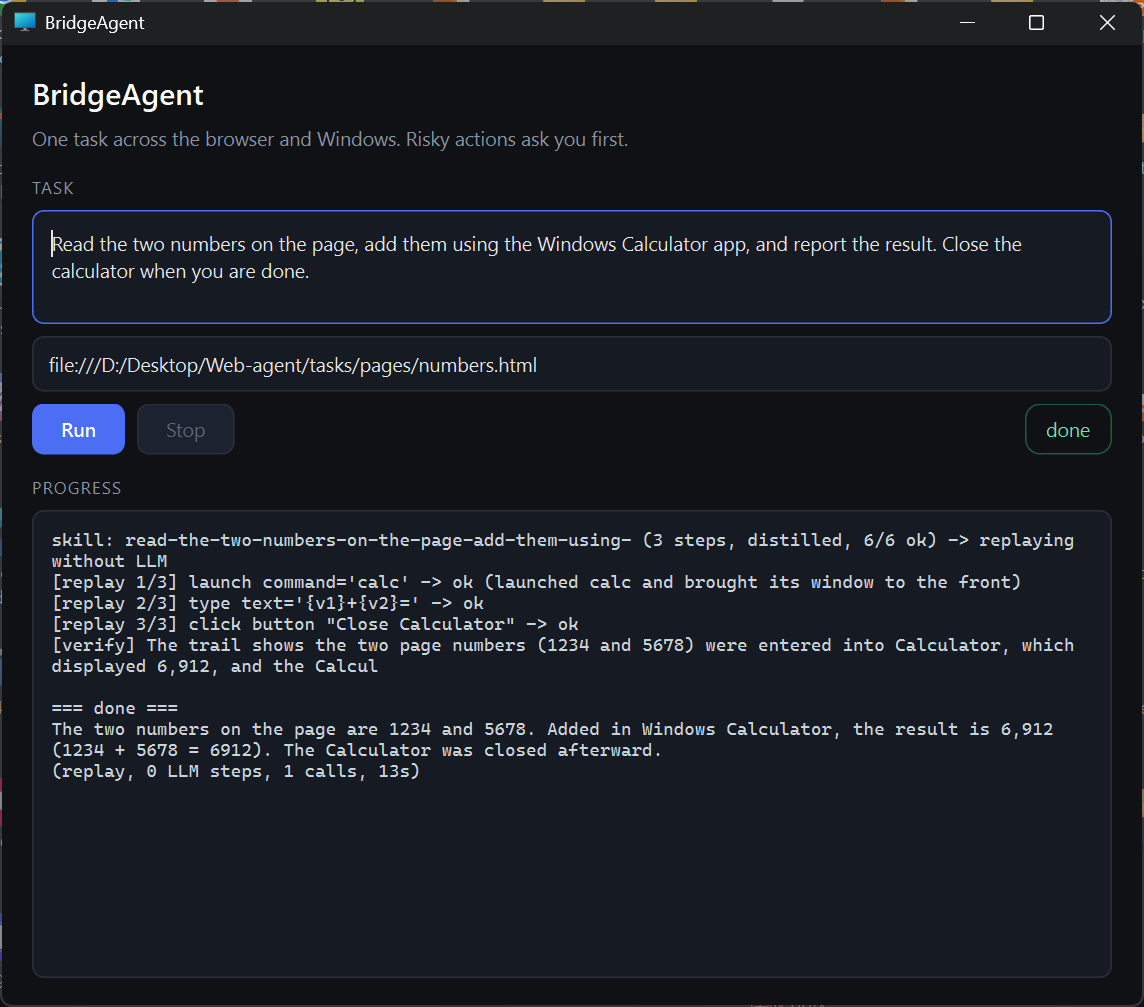
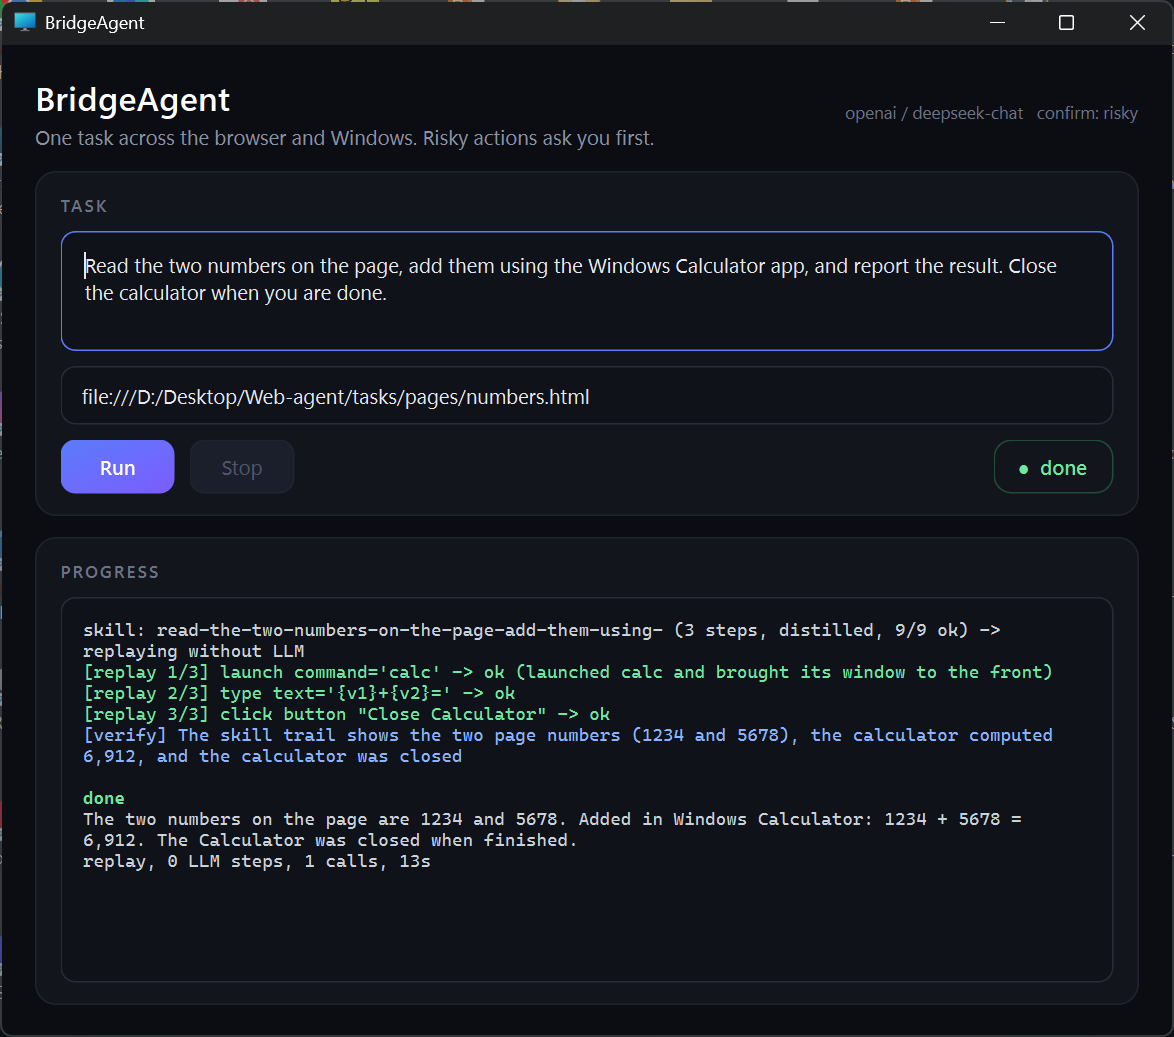
Redesign the desktop window: cards, gradient action, colored log

diff --git a/src/bridgeagent/gui.py b/src/bridgeagent/gui.py
@@ -10,6 +10,7 @@ Run:  bridgeagent gui [--task "..."] [--start-url URL] [--autorun]
 
 from __future__ import annotations
 
+import html
 import sys
 import threading
 
@@ -17,6 +18,7 @@ from PySide6.QtCore import QObject, Signal
 from PySide6.QtGui import QIcon
 from PySide6.QtWidgets import (
     QApplication,
+    QFrame,
     QHBoxLayout,
     QLabel,
     QLineEdit,
@@ -26,6 +28,7 @@ from PySide6.QtWidgets import (
     QPushButton,
     QStyle,
     QSystemTrayIcon,
+    QTextEdit,
     QVBoxLayout,
     QWidget,
 )
@@ -36,22 +39,43 @@ from .config import load_settings
 from .llm import make_planner
 
 STYLE = """
-QMainWindow, QWidget { background: #0f1115; color: #e6e6e6; font-family: 'Segoe UI'; font-size: 13px; }
-QLabel#title { font-size: 20px; font-weight: 600; color: #ffffff; }
-QLabel#subtitle { color: #8b93a3; }
-QLabel#section { color: #8b93a3; font-size: 11px; letter-spacing: 1px; }
-QLabel#status { color: #8b93a3; padding: 4px 10px; border: 1px solid #2a2f3a; border-radius: 10px; }
-QPlainTextEdit, QLineEdit { background: #161a22; border: 1px solid #2a2f3a; border-radius: 8px; padding: 8px; selection-background-color: #3b5bdb; }
-QPlainTextEdit:focus, QLineEdit:focus { border-color: #4c6ef5; }
-QPlainTextEdit#log { font-family: 'Cascadia Mono', Consolas, monospace; font-size: 12px; color: #c9d1d9; }
-QPushButton { background: #1c2230; border: 1px solid #2a2f3a; border-radius: 8px; padding: 7px 18px; color: #e6e6e6; }
-QPushButton:hover { background: #242b3b; }
-QPushButton:disabled { color: #5c6475; }
-QPushButton#run { background: #4c6ef5; border-color: #4c6ef5; color: white; font-weight: 600; }
-QPushButton#run:hover { background: #5c7cfa; }
-QPushButton#run:disabled { background: #2b3550; border-color: #2b3550; color: #7f8aa5; }
-QPushButton#stop:enabled { color: #ff8787; border-color: #5a1f1f; }
+QMainWindow, QWidget { background: #0b0d12; color: #e7e9ee; font-family: 'Segoe UI Variable', 'Segoe UI'; font-size: 13px; }
+QLabel { background: transparent; }
+QLabel#title { font-size: 22px; font-weight: 600; color: #ffffff; }
+QLabel#subtitle { color: #8a93a6; font-size: 13px; }
+QLabel#meta { color: #6b7386; font-size: 11px; }
+QLabel#section { color: #6b7386; font-size: 11px; font-weight: 600; letter-spacing: 1.5px; }
+QFrame#card { background: #12151c; border: 1px solid #1f2430; border-radius: 14px; }
+QPlainTextEdit, QLineEdit { background: #0f1218; border: 1px solid #262c3a; border-radius: 10px; padding: 9px 11px;
+                            selection-background-color: #3b5bdb; }
+QPlainTextEdit:focus, QLineEdit:focus { border-color: #5b7cfa; }
+QTextEdit#log { background: #0f1218; border: 1px solid #262c3a; border-radius: 10px; padding: 10px;
+                font-family: 'Cascadia Mono', Consolas, monospace; font-size: 12px; color: #c9d1d9; }
+QPushButton { background: #1a1f2b; border: 1px solid #2a3040; border-radius: 10px; padding: 8px 20px; color: #e7e9ee; }
+QPushButton:hover { background: #222838; }
+QPushButton:disabled { color: #4f566a; border-color: #1f2430; }
+QPushButton#run { background: qlineargradient(x1:0, y1:0, x2:1, y2:1, stop:0 #5b7cfa, stop:1 #7c5cff);
+                  border: none; color: white; font-weight: 600; padding: 9px 26px; }
+QPushButton#run:hover { background: qlineargradient(x1:0, y1:0, x2:1, y2:1, stop:0 #6b8afc, stop:1 #8a6dff); }
+QPushButton#run:disabled { background: #232a3d; color: #6b7386; }
+QPushButton#stop:enabled { color: #ff8787; border-color: #4a2323; }
+QScrollBar:vertical { background: transparent; width: 8px; }
+QScrollBar::handle:vertical { background: #2a3040; border-radius: 4px; min-height: 24px; }
+QScrollBar::add-line:vertical, QScrollBar::sub-line:vertical { height: 0; }
 """
+STATUS = {
+    "idle": ("#8a93a6", "#262c3a"),
+    "running": ("#ffd166", "#4d4120"),
+    "done": ("#6ee7a0", "#1f4d35"),
+    "failed": ("#ff6b6b", "#4d2323"),
+}
+LINE_COLORS = (
+    ("-> ok", "#6ee7a0"),
+    ("[verify]", "#8ab4ff"),
+    ("[heal]", "#ffd166"),
+    ("!!", "#ff6b6b"),
+    ("FAILED", "#ff6b6b"),
+)
 
 
 class _Bus(QObject):
@@ -63,18 +87,25 @@ class Window(QMainWindow):
     def __init__(self, task: str = "", start_url: str = "", autorun: bool = False, quit_when_done: bool = False):
         super().__init__()
         self.setWindowTitle("BridgeAgent")
-        self.resize(760, 640)
+        self.resize(780, 660)
         self.bus = _Bus()
         self.bus.line.connect(self._append)
         self.bus.finished.connect(self._done)
         self.agent: Agent | None = None
         self.quit_when_done = quit_when_done
+        self._build(task, start_url)
+        self._tray()
+        if autorun and task:
+            self.start()
 
+    # -- layout -----------------------------------------------------------
+
+    def _build(self, task: str, start_url: str) -> None:
         self.task = QPlainTextEdit(task)
         self.task.setPlaceholderText(
             "What should the agent do? e.g. Open the invoices folder in Explorer and upload the newest one to the form."
         )
-        self.task.setFixedHeight(76)
+        self.task.setFixedHeight(80)
         self.url = QLineEdit(start_url)
         self.url.setPlaceholderText("Start URL (optional)")
         self.run_btn = QPushButton("Run")
@@ -82,62 +113,73 @@ class Window(QMainWindow):
         self.stop_btn = QPushButton("Stop")
         self.stop_btn.setObjectName("stop")
         self.stop_btn.setEnabled(False)
-        self.status = QLabel("idle")
-        self.status.setObjectName("status")
-        self.log = QPlainTextEdit()
+        self.status = QLabel()
+        self.log = QTextEdit()
         self.log.setObjectName("log")
         self.log.setReadOnly(True)
         self.run_btn.clicked.connect(self.start)
         self.stop_btn.clicked.connect(self.stop)
+        self._set_status("idle", "idle")
 
-        title = QLabel("BridgeAgent")
-        title.setObjectName("title")
-        subtitle = QLabel("One task across the browser and Windows. Risky actions ask you first.")
-        subtitle.setObjectName("subtitle")
+        settings = load_settings()
+        header = QHBoxLayout()
+        titles = QVBoxLayout()
+        titles.setSpacing(2)
+        titles.addWidget(self._label("BridgeAgent", "title"))
+        titles.addWidget(
+            self._label("One task across the browser and Windows. Risky actions ask you first.", "subtitle")
+        )
+        header.addLayout(titles, 1)
+        header.addWidget(
+            self._label(f"{settings.provider} / {settings.model}   confirm: {settings.confirm_mode}", "meta")
+        )
+
+        task_card = self._card()
+        task_card.layout().addWidget(self._label("TASK", "section"))
+        task_card.layout().addWidget(self.task)
+        task_card.layout().addWidget(self.url)
         row = QHBoxLayout()
         row.addWidget(self.run_btn)
         row.addWidget(self.stop_btn)
         row.addStretch(1)
         row.addWidget(self.status)
+        task_card.layout().addLayout(row)
+
+        log_card = self._card()
+        log_card.layout().addWidget(self._label("PROGRESS", "section"))
+        log_card.layout().addWidget(self.log, 1)
+
         layout = QVBoxLayout()
-        layout.setContentsMargins(20, 18, 20, 18)
-        layout.setSpacing(8)
-        layout.addWidget(title)
-        layout.addWidget(subtitle)
-        layout.addSpacing(8)
-        layout.addWidget(self._section("TASK"))
-        layout.addWidget(self.task)
-        layout.addWidget(self.url)
-        layout.addLayout(row)
-        layout.addSpacing(6)
-        layout.addWidget(self._section("PROGRESS"))
-        layout.addWidget(self.log, 1)
+        layout.setContentsMargins(22, 20, 22, 20)
+        layout.setSpacing(14)
+        layout.addLayout(header)
+        layout.addWidget(task_card)
+        layout.addWidget(log_card, 1)
         root = QWidget()
         root.setLayout(layout)
         self.setCentralWidget(root)
         self.setStyleSheet(STYLE)
-        self._tray()
-        if autorun and task:
-            self.start()
 
     @staticmethod
-    def _section(text: str) -> QLabel:
+    def _label(text: str, role: str) -> QLabel:
         label = QLabel(text)
-        label.setObjectName("section")
+        label.setObjectName(role)
         return label
 
-    STATUS_COLORS = {
-        "idle": ("#8b93a3", "#2a2f3a"),
-        "running": ("#ffd166", "#5a4b1a"),
-        "done": ("#6ee7a0", "#1f5a3a"),
-        "failed": ("#ff6b6b", "#5a1f1f"),
-    }
+    @staticmethod
+    def _card() -> QFrame:
+        card = QFrame()
+        card.setObjectName("card")
+        inner = QVBoxLayout(card)
+        inner.setContentsMargins(16, 14, 16, 14)
+        inner.setSpacing(10)
+        return card
 
     def _set_status(self, text: str, state: str) -> None:
-        color, border = self.STATUS_COLORS.get(state, self.STATUS_COLORS["idle"])
-        self.status.setText(text)
+        color, border = STATUS[state]
+        self.status.setText(f"●  {text}")
         self.status.setStyleSheet(
-            f"color: {color}; border: 1px solid {border}; border-radius: 10px; padding: 4px 10px;"
+            f"color: {color}; border: 1px solid {border}; border-radius: 12px; padding: 5px 12px; font-weight: 600;"
         )
 
     def _tray(self) -> None:
@@ -177,7 +219,7 @@ class Window(QMainWindow):
                 result = self.agent.run(task, start_url=start_url)  # type: ignore[union-attr]
                 status, summary = result.status, result.summary or ""
                 summary += (
-                    f"\n({result.mode}, {len(result.steps)} LLM steps, {result.llm_calls} calls, {result.seconds:.0f}s)"
+                    f"\n{result.mode}, {len(result.steps)} LLM steps, {result.llm_calls} calls, {result.seconds:.0f}s"
                 )
             except Exception as e:  # noqa: BLE001
                 status, summary = "error", f"{type(e).__name__}: {e}"
@@ -189,11 +231,16 @@ class Window(QMainWindow):
             self._set_status("stopping after this step", "running")
 
     def _append(self, line: str) -> None:
-        self.log.appendPlainText(line)
+        color = next((c for marker, c in LINE_COLORS if marker in line), None)
+        text = html.escape(line).replace("  ", "&nbsp;&nbsp;")
+        self.log.append(f'<span style="color:{color or "#c9d1d9"}">{text}</span>')
 
     def _done(self, status: str, summary: str) -> None:
         self._set_status(status, "done" if status == "done" else "failed")
-        self.log.appendPlainText(f"\n=== {status} ===\n{summary}")
+        color = STATUS["done" if status == "done" else "failed"][0]
+        self.log.append(f'<br><b style="color:{color}">{status}</b>')
+        for line in summary.splitlines():
+            self.log.append(f"<span>{html.escape(line)}</span>")
         self.agent = None
         agent_module.LOG_SINK = None
         self.run_btn.setEnabled(True)
